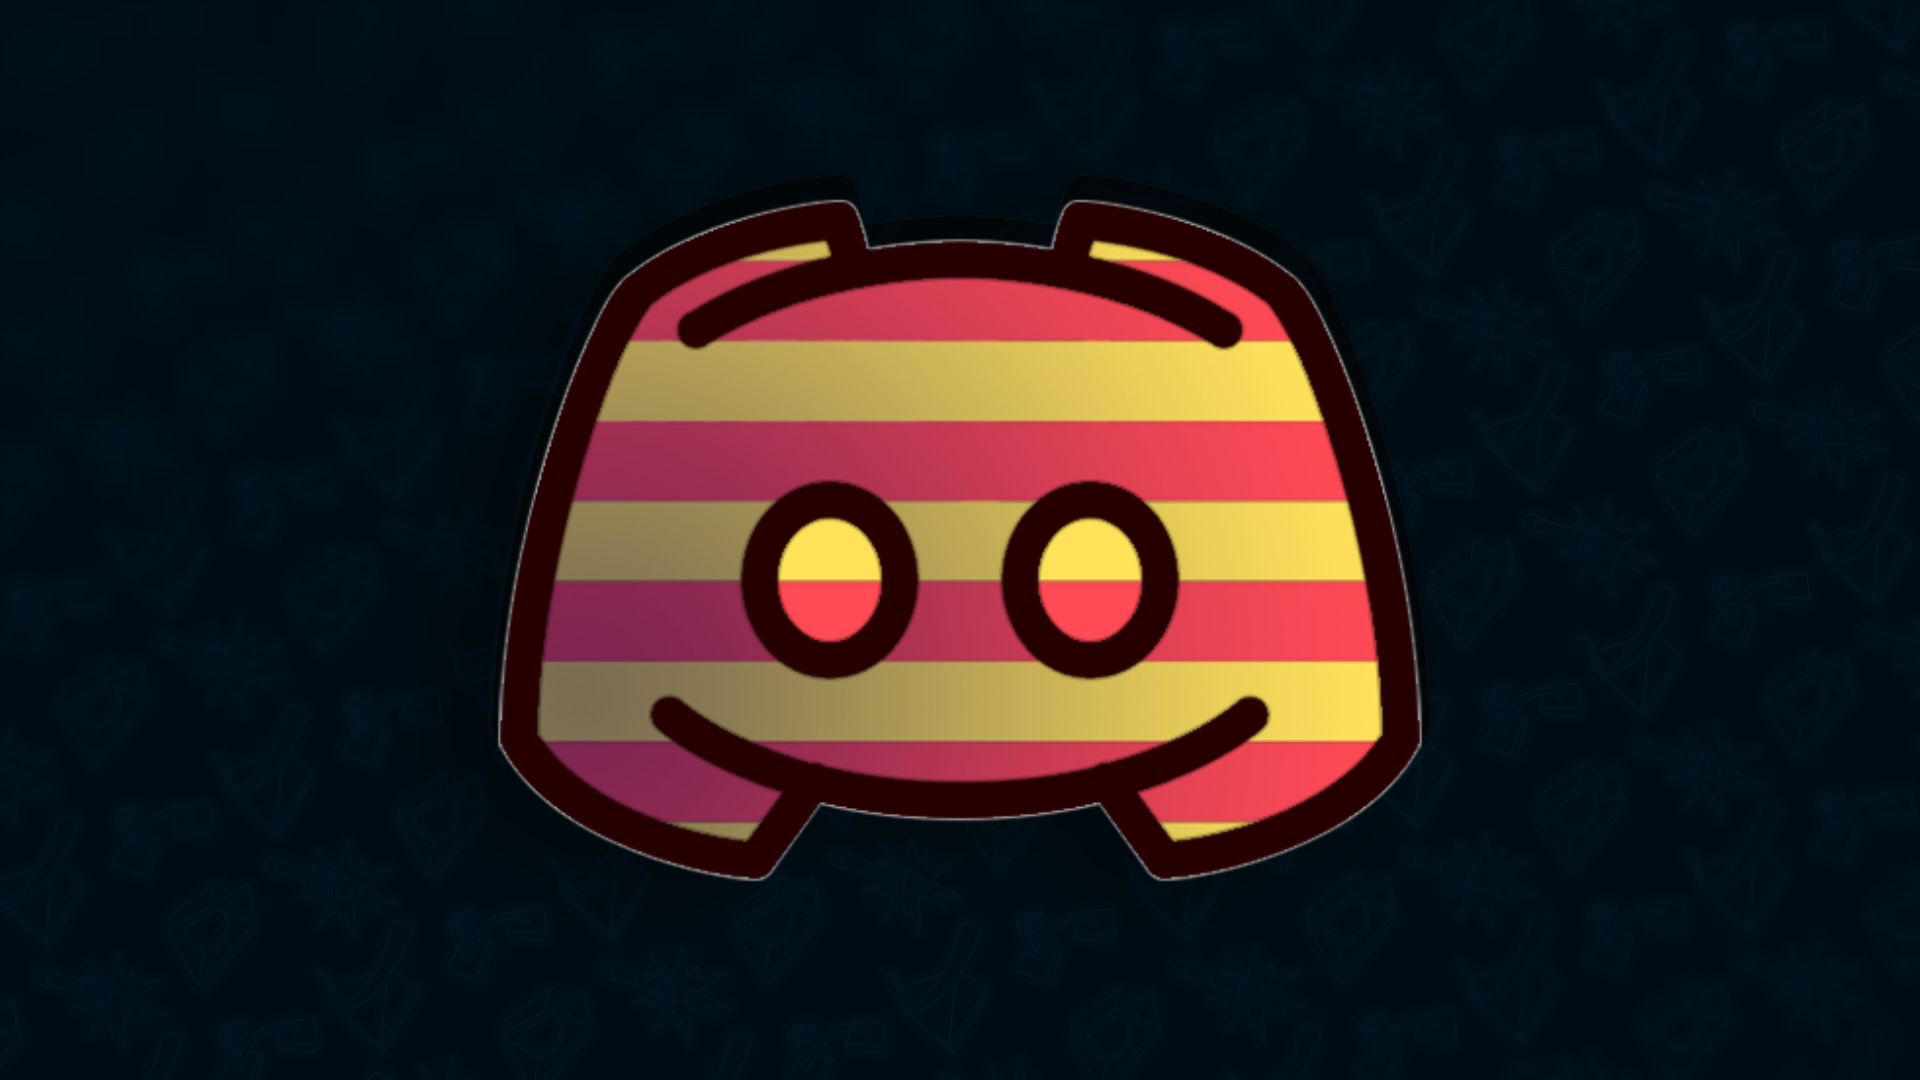
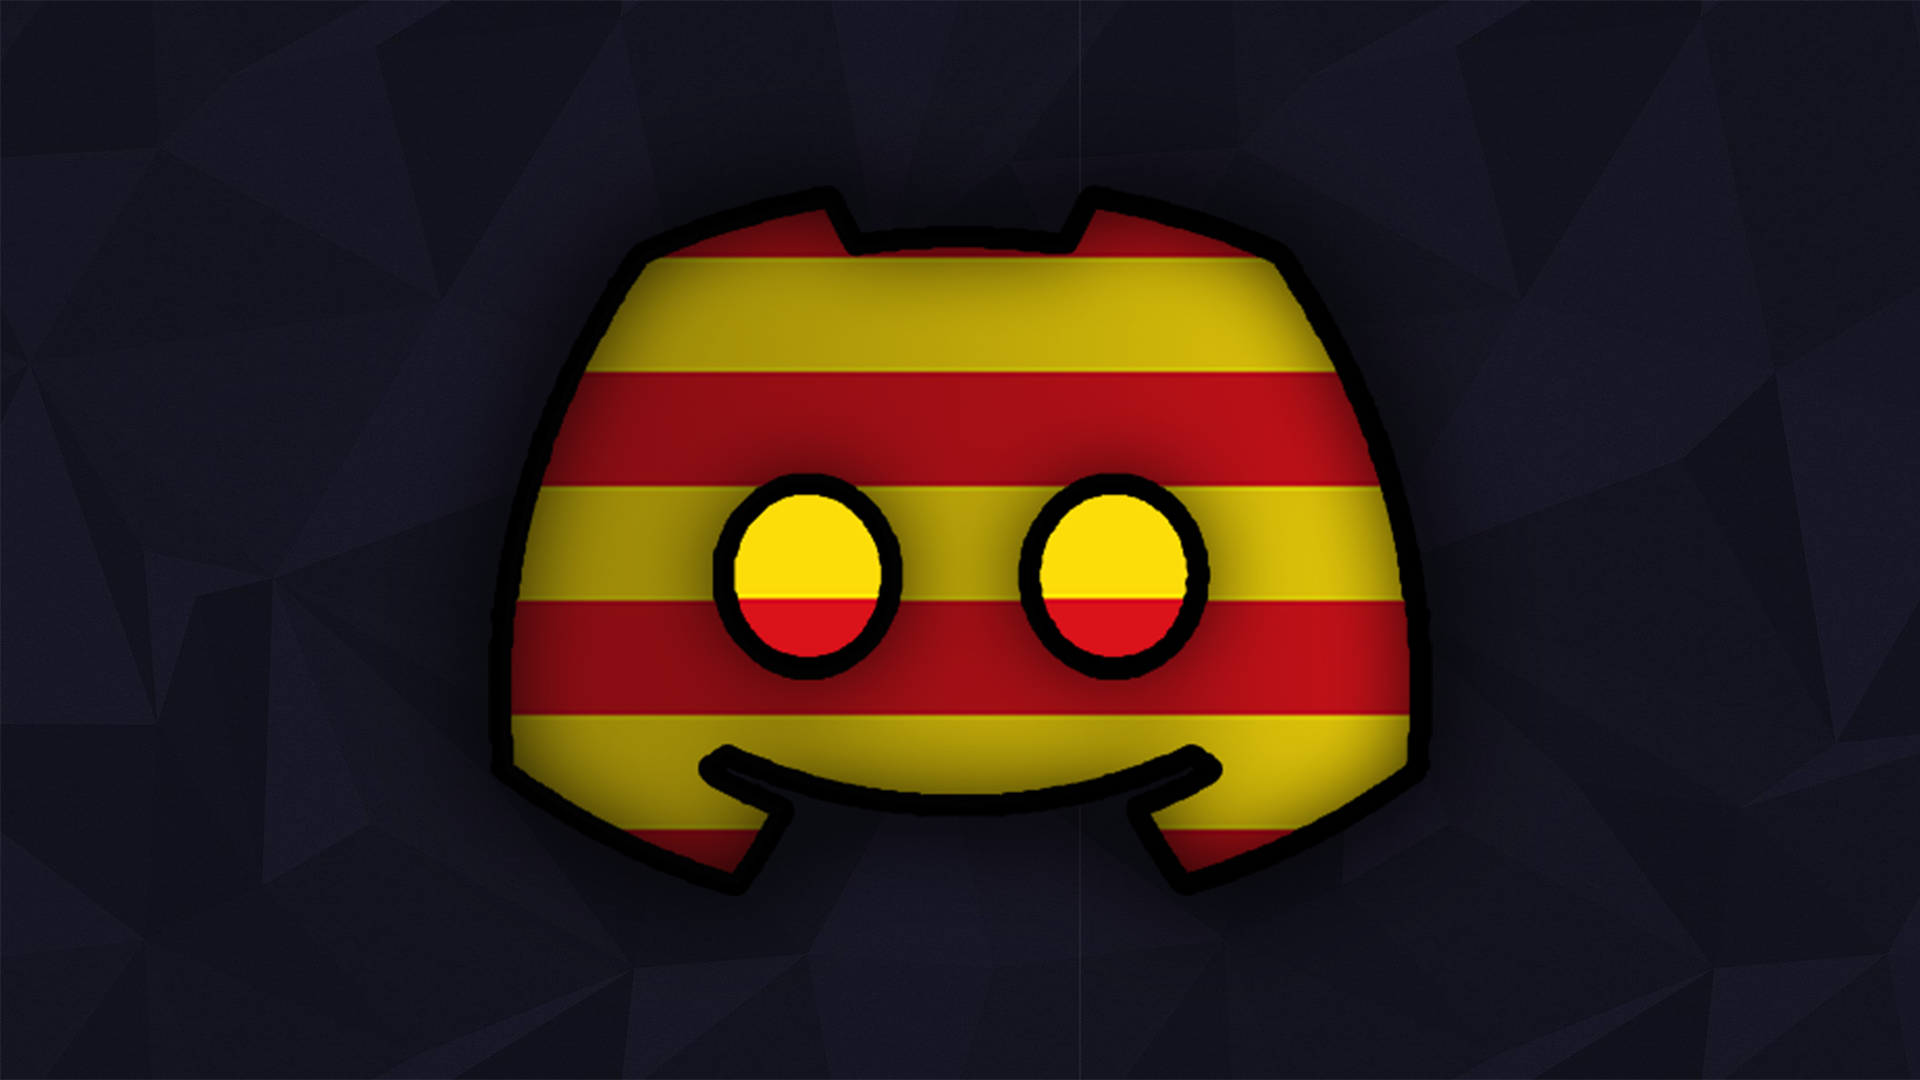
actualitzat al nou nom i la img del catabot

diff --git a/ca/index.html b/ca/index.html
@@ -248,7 +248,7 @@
 								<div class="overlay overlay-bg"></div>
 								<img class="image img-fluid" src="/img/projects/totfet/banner.png" alt="">
 							</div>
-							<a href="https://github.com/CatalaHD/TotFet" class="img-pop-up">
+							<a href="https://github.com/AleixFerre/TotFet" class="img-pop-up">
 								<div class="middle">
 									<div class="text align-self-center d-flex"><img style="height: 80px;"
 											src="/img/elements/eye.svg" alt=""></div>
@@ -270,7 +270,7 @@
 								<div class="overlay overlay-bg"></div>
 								<img class="image img-fluid" src="/img/projects/clocks/clocks.png" alt="">
 							</div>
-							<a href="https://catalahd.github.io/Clocks/" class="img-pop-up">
+							<a href="https://aleixferre.github.io/Clocks/" class="img-pop-up">
 								<div class="middle">
 									<div class="text align-self-center d-flex"><img style="height: 80px;"
 											src="/img/elements/eye.svg" alt=""></div>
@@ -291,7 +291,7 @@
 								<div class="overlay overlay-bg"></div>
 								<img class="image img-fluid" src="/img/projects/catabot/banner.png" alt="">
 							</div>
-							<a href="https://catalahd.github.io/CataBot/" class="img-pop-up">
+							<a href="https://aleixferre.github.io/CataBot/" class="img-pop-up">
 								<div class="middle">
 									<div class="text align-self-center d-flex"><img style="height: 80px;"
 											src="/img/elements/eye.svg" alt=""></div>

diff --git a/en/index.html b/en/index.html
@@ -250,7 +250,7 @@
 								<div class="overlay overlay-bg"></div>
 								<img class="image img-fluid" src="/img/projects/totfet/banner.png" alt="">
 							</div>
-							<a href="https://github.com/CatalaHD/TotFet" class="img-pop-up">
+							<a href="https://github.com/AleixFerre/TotFet" class="img-pop-up">
 								<div class="middle">
 									<div class="text align-self-center d-flex"><img style="height: 80px;"
 											src="/img/elements/eye.svg" alt=""></div>
@@ -272,7 +272,7 @@
 								<div class="overlay overlay-bg"></div>
 								<img class="image img-fluid" src="/img/projects/clocks/clocks.png" alt="">
 							</div>
-							<a href="https://catalahd.github.io/Clocks/" class="img-pop-up">
+							<a href="https://aleixferre.github.io/Clocks/" class="img-pop-up">
 								<div class="middle">
 									<div class="text align-self-center d-flex"><img style="height: 80px;"
 											src="/img/elements/eye.svg" alt=""></div>
@@ -294,7 +294,7 @@
 								<div class="overlay overlay-bg"></div>
 								<img class="image img-fluid" src="/img/projects/catabot/banner.png" alt="">
 							</div>
-							<a href="https://catalahd.github.io/CataBot/" class="img-pop-up">
+							<a href="https://aleixferre.github.io/CataBot/" class="img-pop-up">
 								<div class="middle">
 									<div class="text align-self-center d-flex"><img style="height: 80px;"
 											src="/img/elements/eye.svg" alt=""></div>

diff --git a/es/index.html b/es/index.html
@@ -247,7 +247,7 @@
 								<div class="overlay overlay-bg"></div>
 								<img class="image img-fluid" src="/img/projects/totfet/banner.png" alt="">
 							</div>
-							<a href="https://github.com/CatalaHD/TotFet" class="img-pop-up">
+							<a href="https://github.com/AleixFerre/TotFet" class="img-pop-up">
 								<div class="middle">
 									<div class="text align-self-center d-flex"><img style="height: 80px;"
 											src="/img/elements/eye.svg" alt=""></div>
@@ -268,7 +268,7 @@
 								<div class="overlay overlay-bg"></div>
 								<img class="image img-fluid" src="/img/projects/clocks/clocks.png" alt="">
 							</div>
-							<a href="https://catalahd.github.io/Clocks/" class="img-pop-up">
+							<a href="https://aleixferre.github.io/Clocks/" class="img-pop-up">
 								<div class="middle">
 									<div class="text align-self-center d-flex"><img style="height: 80px;"
 											src="/img/elements/eye.svg" alt=""></div>
@@ -289,7 +289,7 @@
 								<div class="overlay overlay-bg"></div>
 								<img class="image img-fluid" src="/img/projects/catabot/banner.png" alt="">
 							</div>
-							<a href="https://catalahd.github.io/CataBot/" class="img-pop-up">
+							<a href="https://aleixferre.github.io/CataBot/" class="img-pop-up">
 								<div class="middle">
 									<div class="text align-self-center d-flex"><img style="height: 80px;"
 											src="/img/elements/eye.svg" alt=""></div>

diff --git a/ca/portfolio/index.html b/ca/portfolio/index.html
@@ -86,7 +86,7 @@
                 </a>
             </li>
             <li>
-                <a href="https://github.com/CatalaHD/TotFet">
+                <a href="https://github.com/AleixFerre/TotFet">
                     <div class="content">
                         <img class="img-fluid mx-auto d-block mb-30" src="/img/projects/totfet/banner.png" alt="">
                         <h4> TotFet </h4>
@@ -95,7 +95,7 @@
                 </a>
             </li>
             <li>
-                <a href="https://catalahd.github.io/Clocks/">
+                <a href="https://aleixferre.github.io/Clocks/">
                     <div class="content">
                         <img class="img-fluid mx-auto d-block mb-30" src="/img/projects/clocks/clocks.png" alt="">
                         <h4> Clocks </h4>
@@ -113,7 +113,7 @@
                 </a>
             </li>
             <li>
-                <a href="https://catalahd.github.io/CataBot">
+                <a href="https://aleixferre.github.io/CataBot">
                     <div class="content">
                         <img class="img-fluid mx-auto d-block mb-30" src="/img/projects/catabot/banner.png" alt="">
                         <h4> CataBOT </h4>

diff --git a/es/portfolio/index.html b/es/portfolio/index.html
@@ -86,7 +86,7 @@
                 </a>
             </li>
             <li>
-                <a href="https://github.com/CatalaHD/TotFet">
+                <a href="https://github.com/AleixFerre/TotFet">
                     <div class="content">
                         <img class="img-fluid mx-auto d-block mb-30" src="/img/projects/totfet/banner.png" alt="">
                         <h4> TotFet </h4>
@@ -95,7 +95,7 @@
                 </a>
             </li>
             <li>
-                <a href="https://catalahd.github.io/Clocks/">
+                <a href="https://aleixferre.github.io/Clocks/">
                     <div class="content">
                         <img class="img-fluid mx-auto d-block mb-30" src="/img/projects/clocks/clocks.png" alt="">
                         <h4> Clocks </h4>
@@ -113,7 +113,7 @@
                 </a>
             </li>
             <li>
-                <a href="https://catalahd.github.io/CataBot">
+                <a href="https://aleixferre.github.io/CataBot">
                     <div class="content">
                         <img class="img-fluid mx-auto d-block mb-30" src="/img/projects/catabot/banner.png" alt="">
                         <h4> CataBOT </h4>

diff --git a/en/portfolio/index.html b/en/portfolio/index.html
@@ -86,7 +86,7 @@
                 </a>
             </li>
             <li>
-                <a href="https://github.com/CatalaHD/TotFet">
+                <a href="https://github.com/AleixFerre/TotFet">
                     <div class="content">
                         <img class="img-fluid mx-auto d-block mb-30" src="/img/projects/totfet/banner.png" alt="">
                         <h4>
@@ -97,7 +97,7 @@
                 </a>
             </li>
             <li>
-                <a href="https://catalahd.github.io/Clocks/">
+                <a href="https://aleixferre.github.io/Clocks/">
                     <div class="content">
                         <img class="img-fluid mx-auto d-block mb-30" src="/img/projects/clocks/clocks.png" alt="">
                         <h4>
@@ -119,7 +119,7 @@
                 </a>
             </li>
             <li>
-                <a href="https://catalahd.github.io/CataBot">
+                <a href="https://aleixferre.github.io/CataBot">
                     <div class="content">
                         <img class="img-fluid mx-auto d-block mb-30" src="/img/projects/catabot/banner.png" alt="">
                         <h4>

diff --git a/en/about/index.html b/en/about/index.html
@@ -73,7 +73,7 @@
 						I have facility with <b>video game programming</b> and <b>design</b>.
 					</p>
 					<div class="col-lg-12 col-md-6">
-						<a href="https://github.com/CatalaHD" class="primary-btn text-uppercase">GitHub</a>
+						<a href="https://github.com/AleixFerre" class="primary-btn text-uppercase">GitHub</a>
 						<a href="https://aleixferre.itch.io/" class="primary-btn text-uppercase">itch.io</a>
 					</div>
 				</div>
@@ -83,7 +83,7 @@
 						<a href="https://www.udg.edu/en/estudia/Oferta-formativa/Graus/Fitxes?IDE=958&ID=3105G1315">Bachelor's
 							degree in Design and Development of Video Games</a> in University of Girona. Besides that,
 						you can see all the applications I made on my own in my
-						<a href="https://github.com/CatalaHD">GitHub</a> account.
+						<a href="https://github.com/AleixFerre">GitHub</a> account.
 						My main hobby is the game development and I have collaborated on several projects with <b> Unity
 						</b> and <b> Unreal Engine </b> (although I prefer Unity).
 					</p>

diff --git a/ca/about/index.html b/ca/about/index.html
@@ -72,7 +72,7 @@
 						Tinc facilitat amb la <b>programació</b> i el <b>disseny de videojocs</b>.
 					</p>
 					<div class="col-lg-12 col-md-6">
-						<a href="https://github.com/CatalaHD" class="primary-btn text-uppercase">GitHub</a>
+						<a href="https://github.com/AleixFerre" class="primary-btn text-uppercase">GitHub</a>
 						<a href="https://aleixferre.itch.io/" class="primary-btn text-uppercase">itch.io</a>
 					</div>
 				</div>
@@ -82,7 +82,7 @@
 						<a href="https://www.udg.edu/ca/estudia/Oferta-formativa/Graus/Fitxes?IDE=958&ID=3105G1315">Grau
 							de Desenvolupament de Videojocs</a> a la Universitat de Girona. A
 						part he fet aplicacions per conta pròpia que pots veure a la meva conta de
-						<a href="https://github.com/CatalaHD">GitHub</a>.
+						<a href="https://github.com/AleixFerre">GitHub</a>.
 						La meva afició principal és el desenvolupament de videojocs i he col·laborat en varis projectes
 						en
 						<b>Unity</b> i <b>Unreal Engine</b> (encara que prefereixo Unity).

diff --git a/es/about/index.html b/es/about/index.html
@@ -73,7 +73,7 @@
 						Tengo facilidad con la <b>programación</b> y el <b>diseño de videojuegos</b>.
 					</p>
 					<div class="col-lg-12 col-md-6">
-						<a href="https://github.com/CatalaHD" class="primary-btn text-uppercase">GitHub</a>
+						<a href="https://github.com/AleixFerre" class="primary-btn text-uppercase">GitHub</a>
 						<a href="https://aleixferre.itch.io/" class="primary-btn text-uppercase">itch.io</a>
 					</div>
 				</div>
@@ -83,7 +83,7 @@
 						<a href="https://www.udg.edu/es/estudia/Oferta-formativa/Graus/Fitxes?IDE=958&ID=3105G1315">Grado
 							de Desarrollo de Videojuegos</a> en la Universitat de Girona. A
 						parte he hecho aplicaciones por mi cuenta que puedes ver en mi cuenta de
-						<a href="https://github.com/CatalaHD">GitHub</a>.
+						<a href="https://github.com/AleixFerre">GitHub</a>.
 						Mi afición principal es el desarrollo de videojuegos y he colaborado en varios proyectos con
 						<b>Unity</b> y <b>Unreal Engine</b> (aunque prefiero Unity).
 					</p>

diff --git a/es/contact/index.html b/es/contact/index.html
@@ -65,7 +65,7 @@
 				Tienes diferentes formas de contactar conmigo:
 			</h2>
 			<div class="row">
-				<a href="https://github.com/CatalaHD/" style="margin-right: 10px; margin: auto">
+				<a href="https://github.com/AleixFerre/" style="margin-right: 10px; margin: auto">
 					<div id="col">
 						<img style="height: 200px; padding-bottom: 10px;" src="/img/elements/github.svg">
 						<h3 style="text-align: center;"> GitHub </h3>

diff --git a/en/contact/index.html b/en/contact/index.html
@@ -65,7 +65,7 @@
 				You have differents ways to contact with me:
 			</h2>
 			<div class="row">
-				<a href="https://github.com/CatalaHD/" style="margin-right: 10px; margin: auto">
+				<a href="https://github.com/AleixFerre/" style="margin-right: 10px; margin: auto">
 					<div id="col">
 						<img style="height: 200px; padding-bottom: 10px;" src="/img/elements/github.svg">
 						<h3 style="text-align: center;"> GitHub </h3>

diff --git a/ca/contact/index.html b/ca/contact/index.html
@@ -65,7 +65,7 @@
 				Tens diferents formes de contactar amb mi:
 			</h2>
 			<div class="row">
-				<a href="https://github.com/CatalaHD/" style="margin-right: 10px; margin: auto">
+				<a href="https://github.com/AleixFerre/" style="margin-right: 10px; margin: auto">
 					<div id="col">
 						<img style="height: 200px; padding-bottom: 10px;" src="/img/elements/github.svg">
 						<h3 style="text-align: center;"> GitHub </h3>
